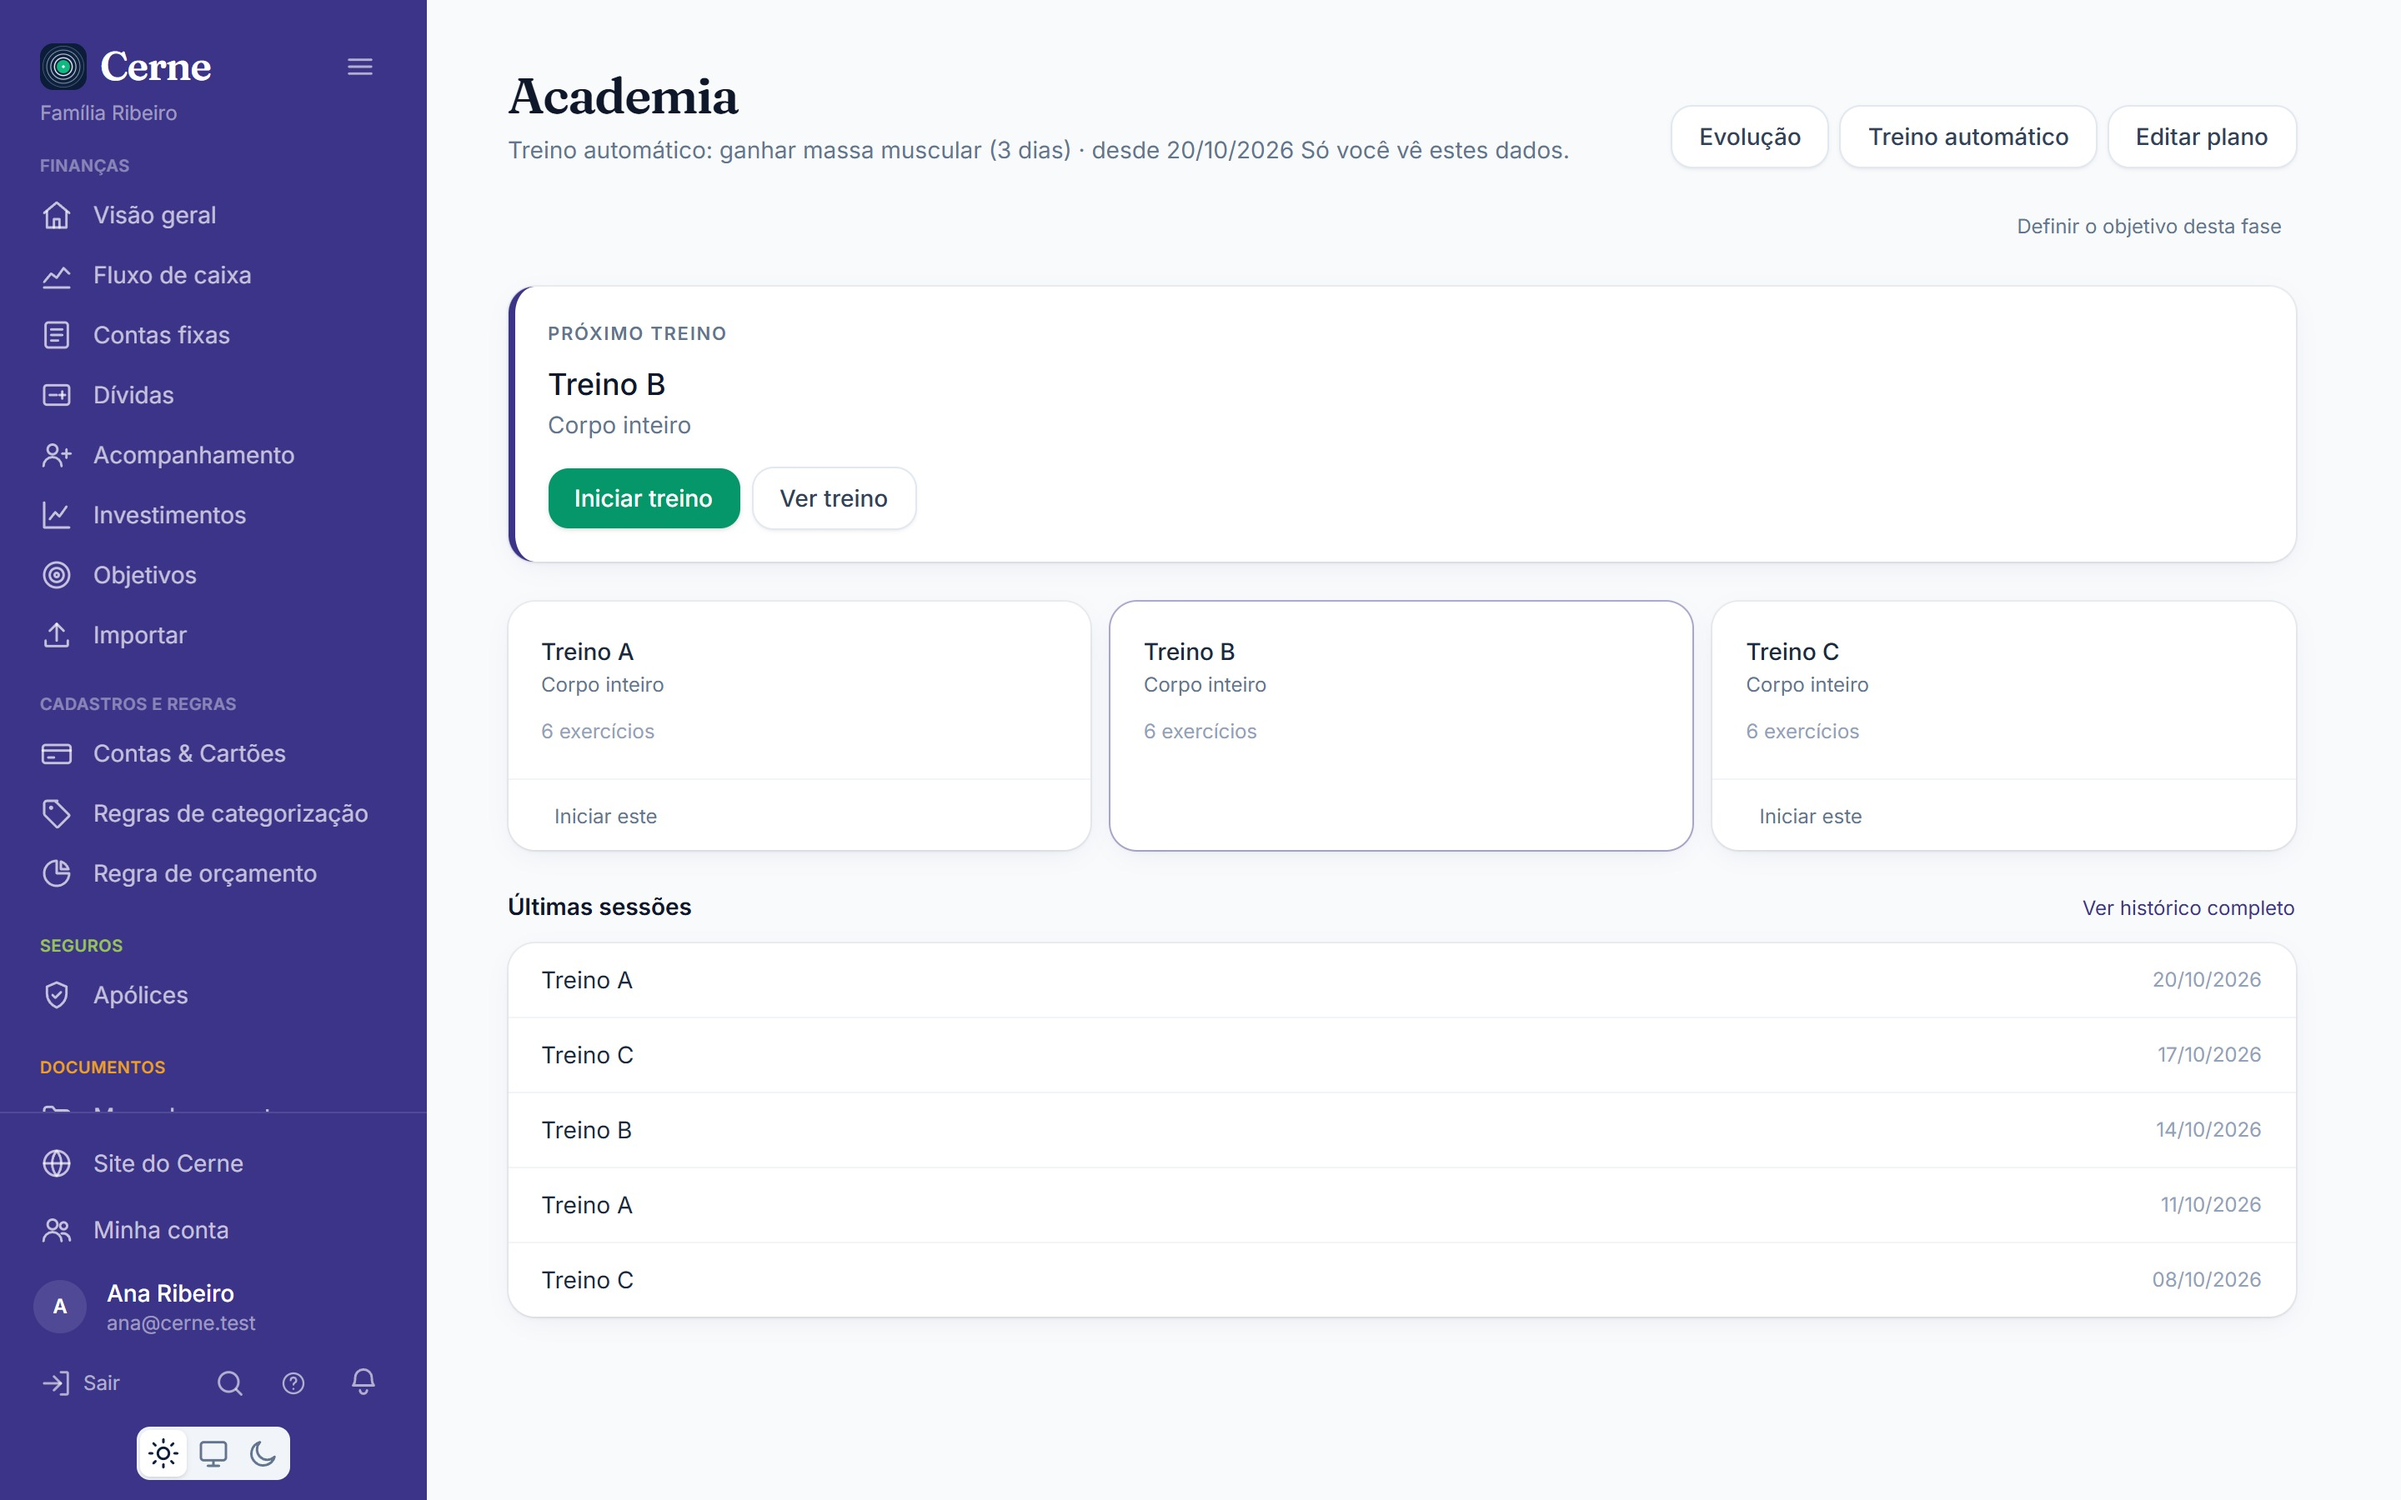
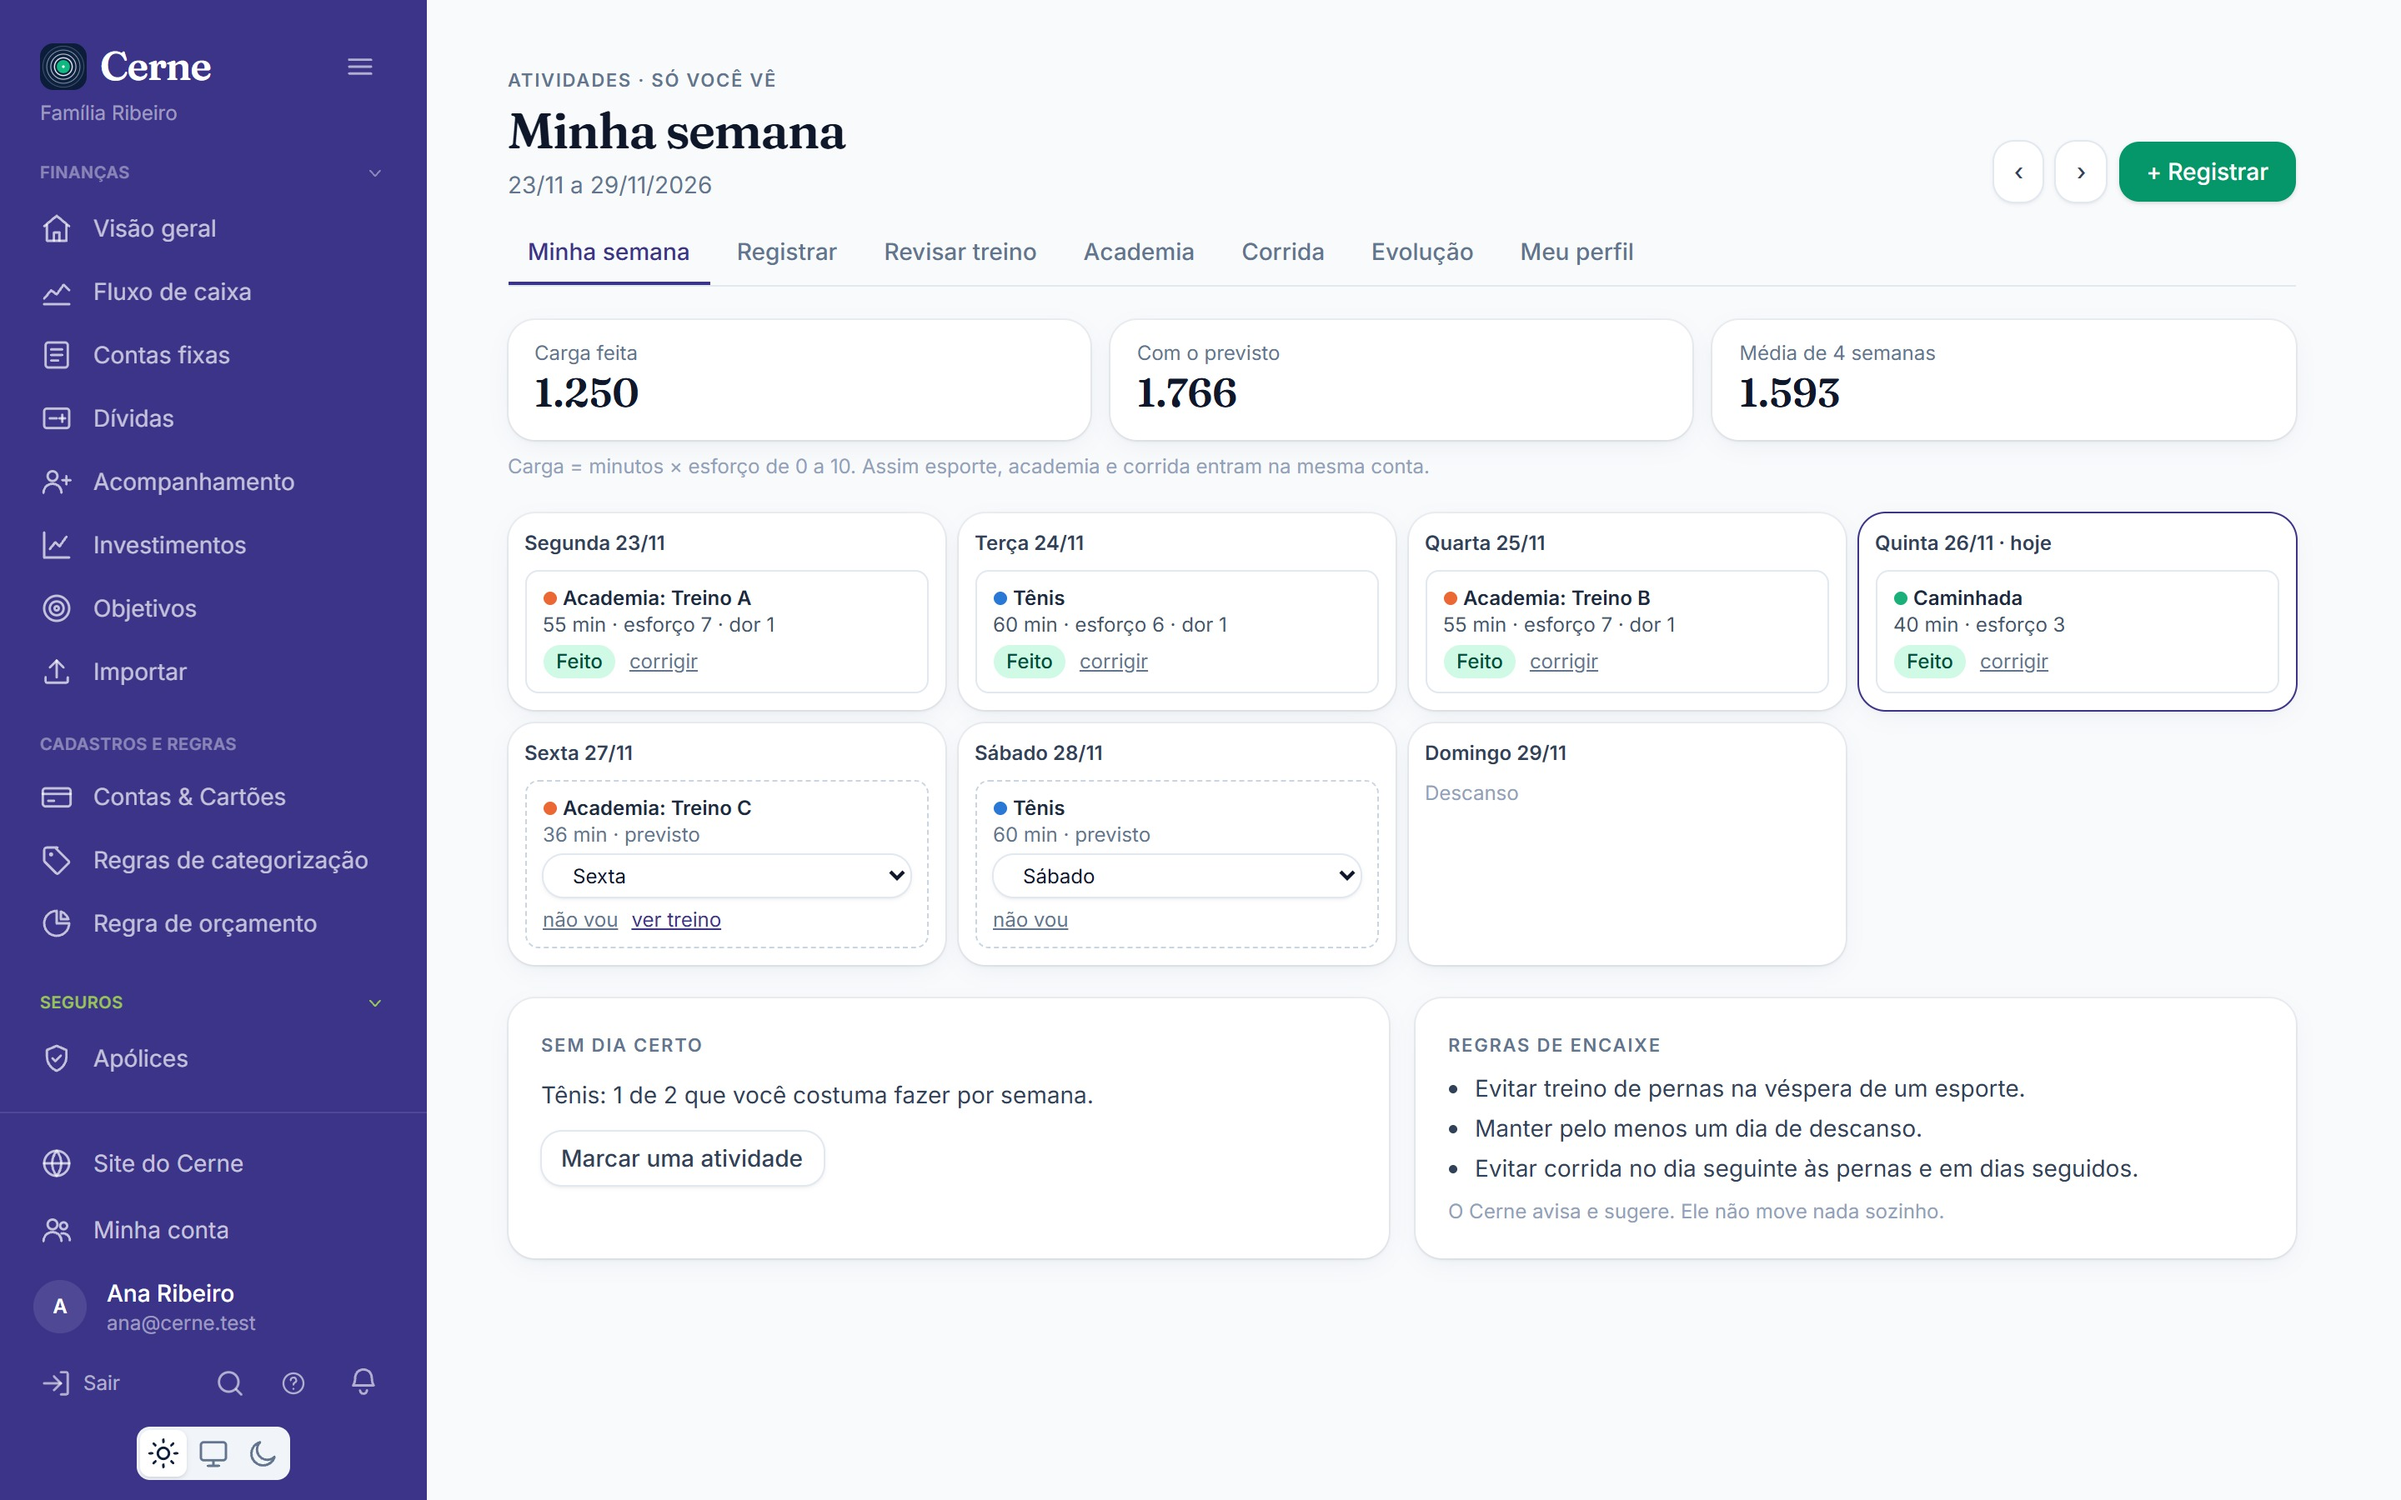
Atividades: o Fiz da semana passa a avancar o rodizio da academia; captura nova da Saude no site e historico de ideias

diff --git a/app/Services/GymPlanService.php b/app/Services/GymPlanService.php
@@ -2,6 +2,8 @@
 
 namespace App\Services;
 
+use App\Enums\ActivityRecordStatus;
+use App\Enums\ActivityType;
 use App\Enums\GymEquipmentAccess;
 use App\Enums\GymGoal;
 use App\Enums\GymLevel;
@@ -9,6 +11,7 @@ use App\Enums\GymMeasureType;
 use App\Enums\GymMuscleGroup;
 use App\Enums\GymSeason;
 use App\Enums\GymSport;
+use App\Models\ActivityRecord;
 use App\Models\GymEquipment;
 use App\Models\GymExercise;
 use App\Models\GymExerciseCatalog;
@@ -247,7 +250,8 @@ class GymPlanService
     /**
      * Próximo treino da rotação: o seguinte ao do último treino CONCLUÍDO,
      * voltando ao primeiro depois do último. Sem nenhum concluído, o
-     * primeiro.
+     * primeiro. Concluído é a sessão registrada na Academia OU o "Fiz" de um
+     * treino previsto em Minha semana, para quem não anota as séries.
      */
     public function nextWorkout(GymPlan $plan): ?GymWorkout
     {
@@ -263,13 +267,43 @@ class GymPlanService
             ->latest('finished_at')
             ->first();
 
-        if ($ultima === null) {
+        $ultimoId = $ultima?->workout_id;
+        $marcado = $this->lastConfirmedInWeek($treinos->pluck('id')->all());
+
+        // No mesmo dia vale a sessão: o "Fiz" que ganha a sessão do dia deixa de ser solto (ver syncGymSessions).
+        if ($marcado !== null && ($ultima === null || $marcado['date'] > $ultima->performed_on->toDateString())) {
+            $ultimoId = $marcado['workout_id'];
+        }
+
+        if ($ultimoId === null) {
             return $treinos->first();
         }
 
-        $indice = $treinos->search(fn (GymWorkout $t) => $t->id === $ultima->workout_id);
+        $indice = $treinos->search(fn (GymWorkout $t) => $t->id === $ultimoId);
 
         return $treinos[(($indice === false ? -1 : $indice) + 1) % $treinos->count()];
+    }
+
+    /**
+     * O último treino desta fase que a pessoa disse ter feito em Minha semana, sem sessão registrada. A chave do previsto
+     * (`g:semana:vaga:treino`) diz qual era o treino.
+     *
+     * @param  list<string>  $treinoIds
+     * @return array{workout_id: string, date: string}|null
+     */
+    private function lastConfirmedInWeek(array $treinoIds): ?array
+    {
+        $registro = ActivityRecord::query()
+            ->where('activity', ActivityType::Gym->value)
+            ->where('status', ActivityRecordStatus::Done->value)
+            ->whereNull('gym_session_id')
+            ->where('planned_key', 'like', 'g:%')
+            ->orderByDesc('done_on')->orderByDesc('created_at')
+            ->limit(20)
+            ->get()
+            ->first(fn (ActivityRecord $r) => in_array(explode(':', (string) $r->planned_key)[3] ?? '', $treinoIds, true));
+
+        return $registro === null ? null : ['workout_id' => explode(':', (string) $registro->planned_key)[3], 'date' => $registro->done_on->toDateString()];
     }
 
     /**

diff --git a/tests/Feature/ActivitiesTest.php b/tests/Feature/ActivitiesTest.php
@@ -150,6 +150,40 @@ class ActivitiesTest extends TestCase
         $this->assertSame(1, $this->semana()['items']->where('name', 'Academia: Treino C')->where('status', 'planned')->count());
     }
 
+    public function test_o_fiz_da_semana_avanca_o_rodizio_mesmo_sem_registrar_series(): void
+    {
+        $this->rotinaDaAna();
+        $semanas = app(ActivityWeekService::class);
+        $inicio = CarbonImmutable::parse('2026-11-23');
+        $academia = fn () => $this->semana()['items']->filter(fn (array $i) => $i['workout_id'] !== null)->pluck('name')->values()->all();
+
+        $semanas->confirm($inicio, $this->item('Academia: Treino A')['ref'], 55, 6, null);
+        $this->assertSame(['Academia: Treino A', 'Academia: Treino B', 'Academia: Treino C'], $academia());
+
+        $semanas->confirm($inicio, $this->item('Academia: Treino B')['ref'], 55, 7, null);
+        $this->assertSame(['Academia: Treino A', 'Academia: Treino B', 'Academia: Treino C'], $academia());
+        // A Academia sugere o mesmo próximo treino que a semana.
+        $planos = app(GymPlanService::class);
+        $this->assertSame('Treino C', $planos->nextWorkout($planos->activePlan())->name);
+        // A semana seguinte continua o rodízio: depois do C vem o A.
+        $this->assertSame(['Academia: Treino A', 'Academia: Treino B', 'Academia: Treino C'], $semanas->week($inicio->addWeek())['items']->filter(fn (array $i) => $i['workout_id'] !== null)->pluck('name')->values()->all());
+
+        // Um treino registrado série por série depois disso volta a mandar no rodízio.
+        $this->travelTo(CarbonImmutable::parse('2026-11-27 20:00'));
+        $treinoA = GymWorkout::query()->where('name', 'Treino A')->firstOrFail();
+        GymSession::create(['workout_id' => $treinoA->id, 'performed_on' => '2026-11-27', 'started_at' => '2026-11-27 18:00', 'finished_at' => '2026-11-27 19:00']);
+        $this->assertSame('Treino B', $planos->nextWorkout($planos->activePlan())->name);
+    }
+
+    public function test_nao_fiz_nao_avanca_o_rodizio(): void
+    {
+        $this->rotinaDaAna();
+        app(ActivityWeekService::class)->skip(CarbonImmutable::parse('2026-11-23'), $this->item('Academia: Treino A')['ref']);
+
+        // O treino que não foi feito é o próximo da fila.
+        $this->assertSame(1, $this->semana()['items']->where('name', 'Academia: Treino A')->where('status', 'planned')->count());
+    }
+
     public function test_mudar_o_dia_vale_para_a_semana_e_avisa_pernas_na_vespera_do_esporte(): void
     {
         $this->rotinaDaAna();

diff --git a/resources/views/landing.blade.php b/resources/views/landing.blade.php
@@ -36,7 +36,7 @@
             'Consultas e exames com quem atende, onde fica e como chegar, lembrete um dia antes e atalho para o Google Agenda ou arquivo de calendário. Cada pessoa da família na sua cor.', 'bg-saude-800'],
         ['saude-ficha', 'Ficha de saúde', 'saude-ficha', 'Ficha de saúde com QR Code de emergência', 'O essencial, à mão em uma emergência',
             'Tipo sanguíneo, alergias, doenças e remédios com histórico, mais um QR Code: quem ler vê o que importa em uma emergência, sem precisar de login.', 'bg-saude-800'],
-        ['saude', 'Atividades', 'saude', 'Treino de academia acompanhado no Cerne', 'Sua semana de atividades',
+        ['saude', 'Atividades', 'saude', 'Semana de atividades no Cerne, com academia, tênis e caminhada', 'Sua semana de atividades',
             'Esportes, academia, caminhada e corrida na mesma semana. Monte o treino ou gere um automático pelo seu objetivo, registre o que fez e acompanhe a carga e a evolução. Se houver uma limitação na sua Saúde, o Cerne sugere o que pausar, e você decide. Só você vê as suas atividades.', 'bg-saude-800'],
     ];
 

diff --git a/CLAUDE.md b/CLAUDE.md
@@ -686,6 +686,8 @@ Decisões do dono em 2026-11-26. Regras que não se quebram:
 - **O treino automático** lê as limitações (`GymGeneratorInput::blocks`), mostra "Encontrado na sua Saúde" e **não grava** isso nas regiões da fase: liberada a limitação, deixa de valer.
 - **Semana**: o previsto (compromisso fixo `c:`, vaga da academia `g:` nos dias preferidos, corrida `k:`) **não é gravado**; vira linha em `activity_records` com `planned_key` (índice único)
   quando a pessoa diz "Fiz" ou "não fiz"; mudar de dia grava só `activity_week_moves`. Semana passada mostra só o diário. Referência de item vinda do navegador é procurada de novo na semana (404).
+- **O "Fiz" da semana avança o rodízio** (`GymPlanService::nextWorkout` vale o último treino feito: sessão registrada ou previsto `g:` confirmado; no mesmo dia vale a sessão), para quem não
+  anota as séries. "Não fiz" não avança. Sem isso os dias seguintes repetiam o Treino A.
 - **Treino terminado na Academia** entra no diário uma vez (`syncGymSessions`, índice único `member_id + gym_session_id`); se já havia um "Fiz" do mesmo dia, a sessão se liga a ele.
 - **Carga = minutos × esforço**; alerta acima de 30% da média de 4 semanas (precisa de 2 semanas com dado). A tela diz que é sinal e que não prevê lesão. **O Cerne avisa e não move nada.**
 - **Corrida**: regras fixas (`RunningLadder`, `RunningService`); com limitação que recomende aguardar, só começa com "Montar mesmo assim", e a escolha fica registrada

diff --git a/docs/historico-de-ideias.md b/docs/historico-de-ideias.md
@@ -1,0 +1,19 @@
+# Cerne: histórico de ideias
+
+Ideias guardadas para um segundo momento. Nada aqui está aprovado para construção. Quando uma ideia for para o desenvolvimento, as regras dela vão para o
+`CLAUDE.md`.
+
+## Alimentação e hidratação (pedido de 26/11/2026)
+
+- **Acompanhar a alimentação.** Fica para o futuro. É o que mais pesa em um projeto de perda de peso, e sem isso o Cerne não deve prometer resultado.
+- **Meta diária de água.** Mostrar quanto beber por dia.
+  - A conta por peso é só uma referência geral. Quem tem restrição de líquidos (por exemplo, problema no coração ou nos rins) precisa seguir o médico,
+    e a meta deve poder ser digitada à mão ou desligada.
+- **Lembrete para beber água em intervalos.** Desligado por padrão, com horário de início e fim, para não avisar de madrugada, e com pausa fácil.
+  Pelo navegador, depende de a pessoa ter ativado as notificações no aparelho.
+
+## Atividades e saúde (guardadas antes)
+
+- **Leitura por IA da folha do profissional** (foto ou PDF), com revisão antes de salvar.
+- **Relógios e aplicativos:** print do resumo e arquivo do treino primeiro, depois aplicativo para Android e para iPhone. A integração direta com o Strava
+  não serve, pelas regras da própria API (pesquisa de 26/11/2026).
